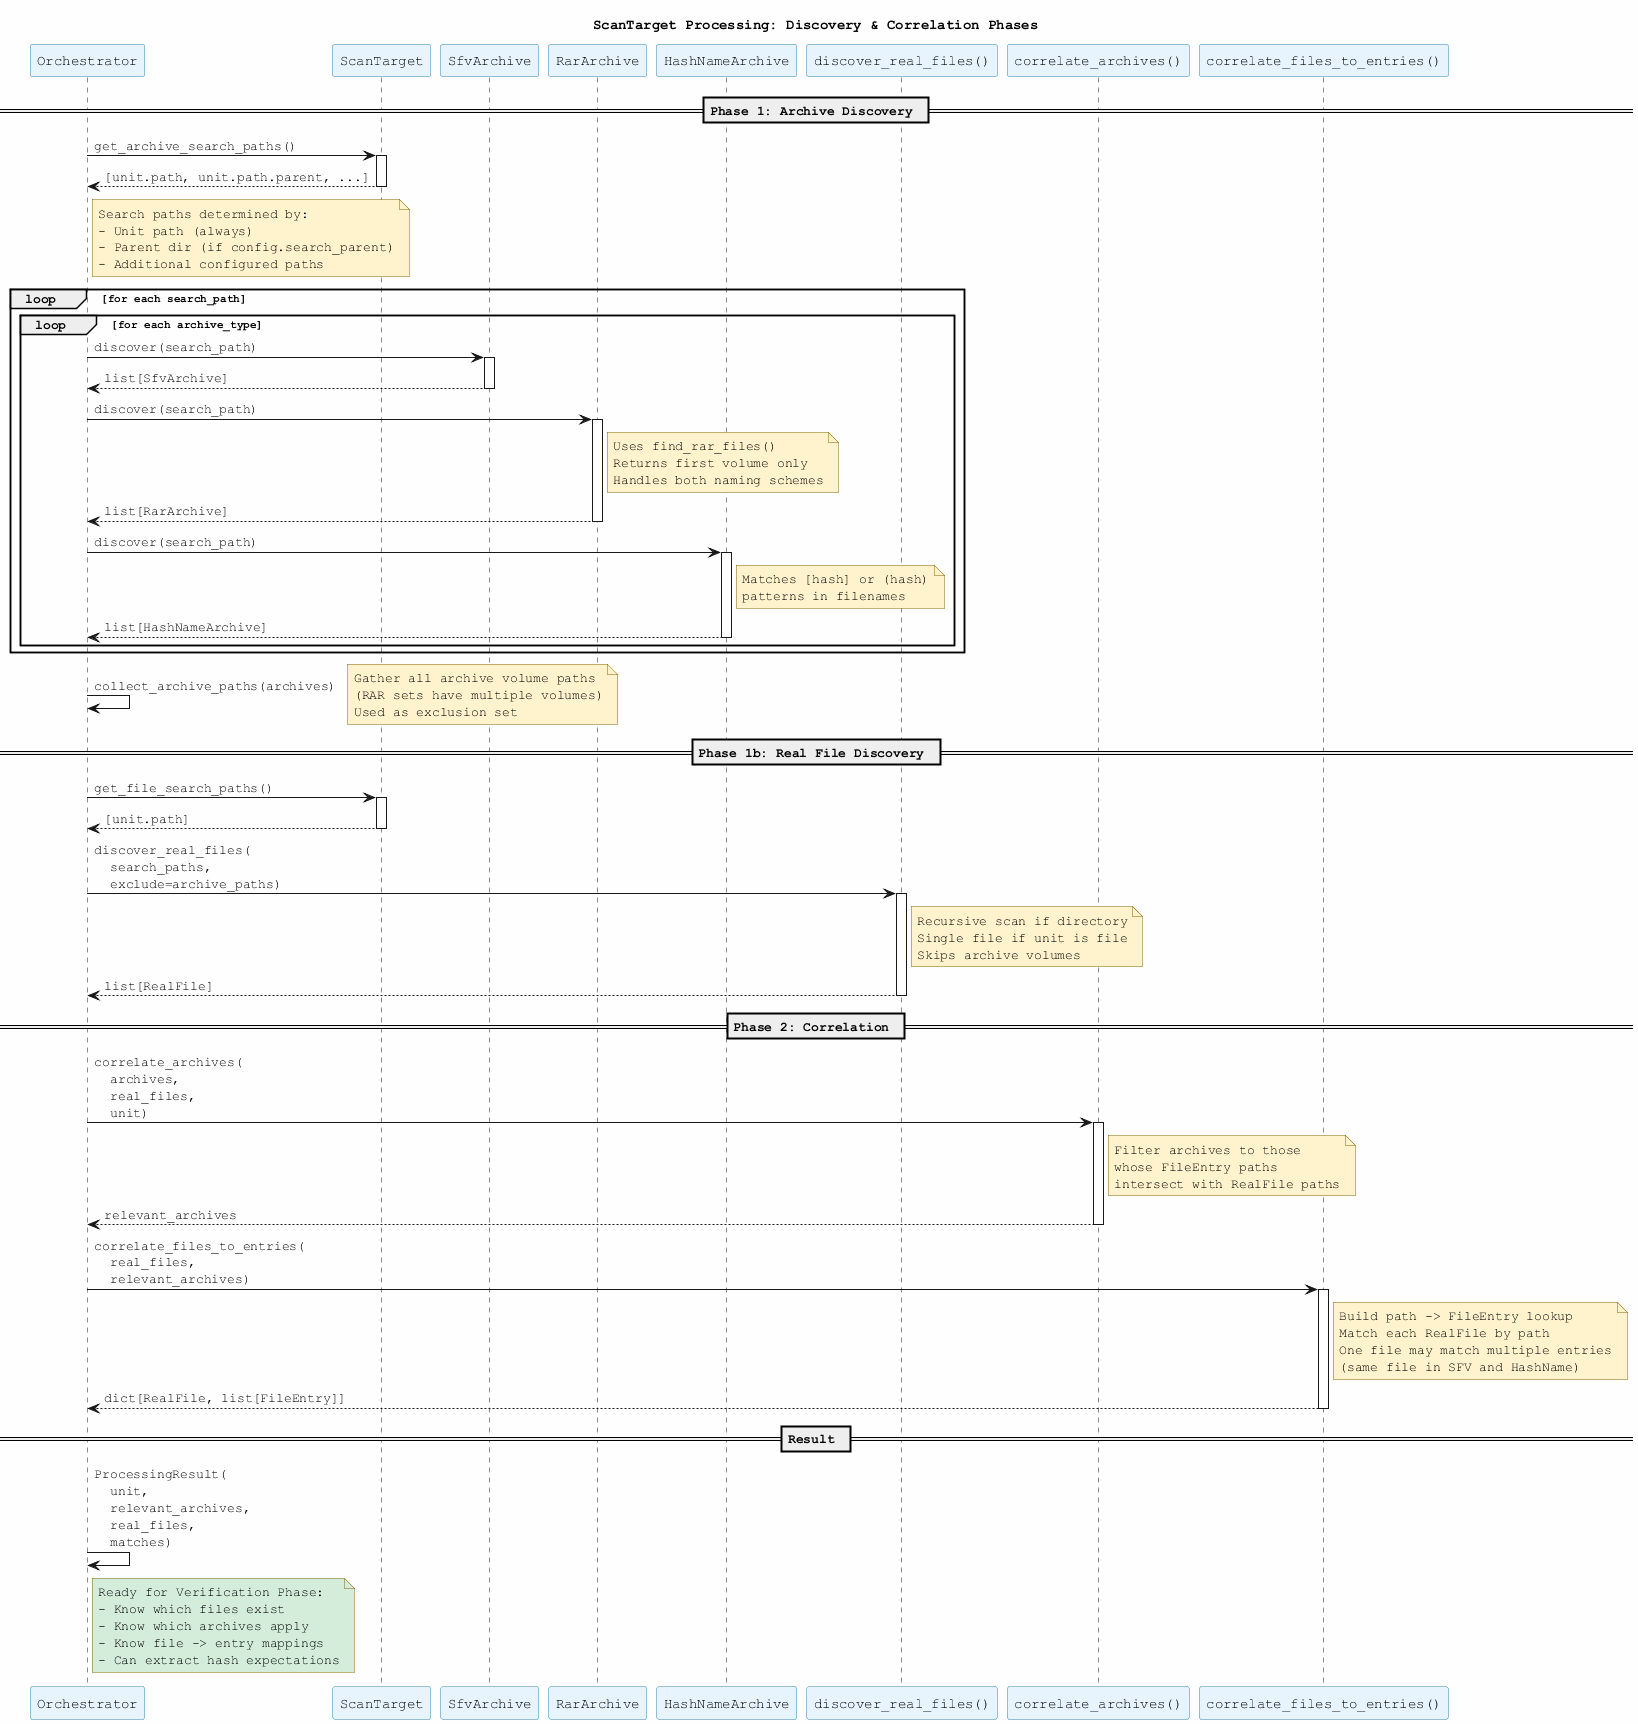
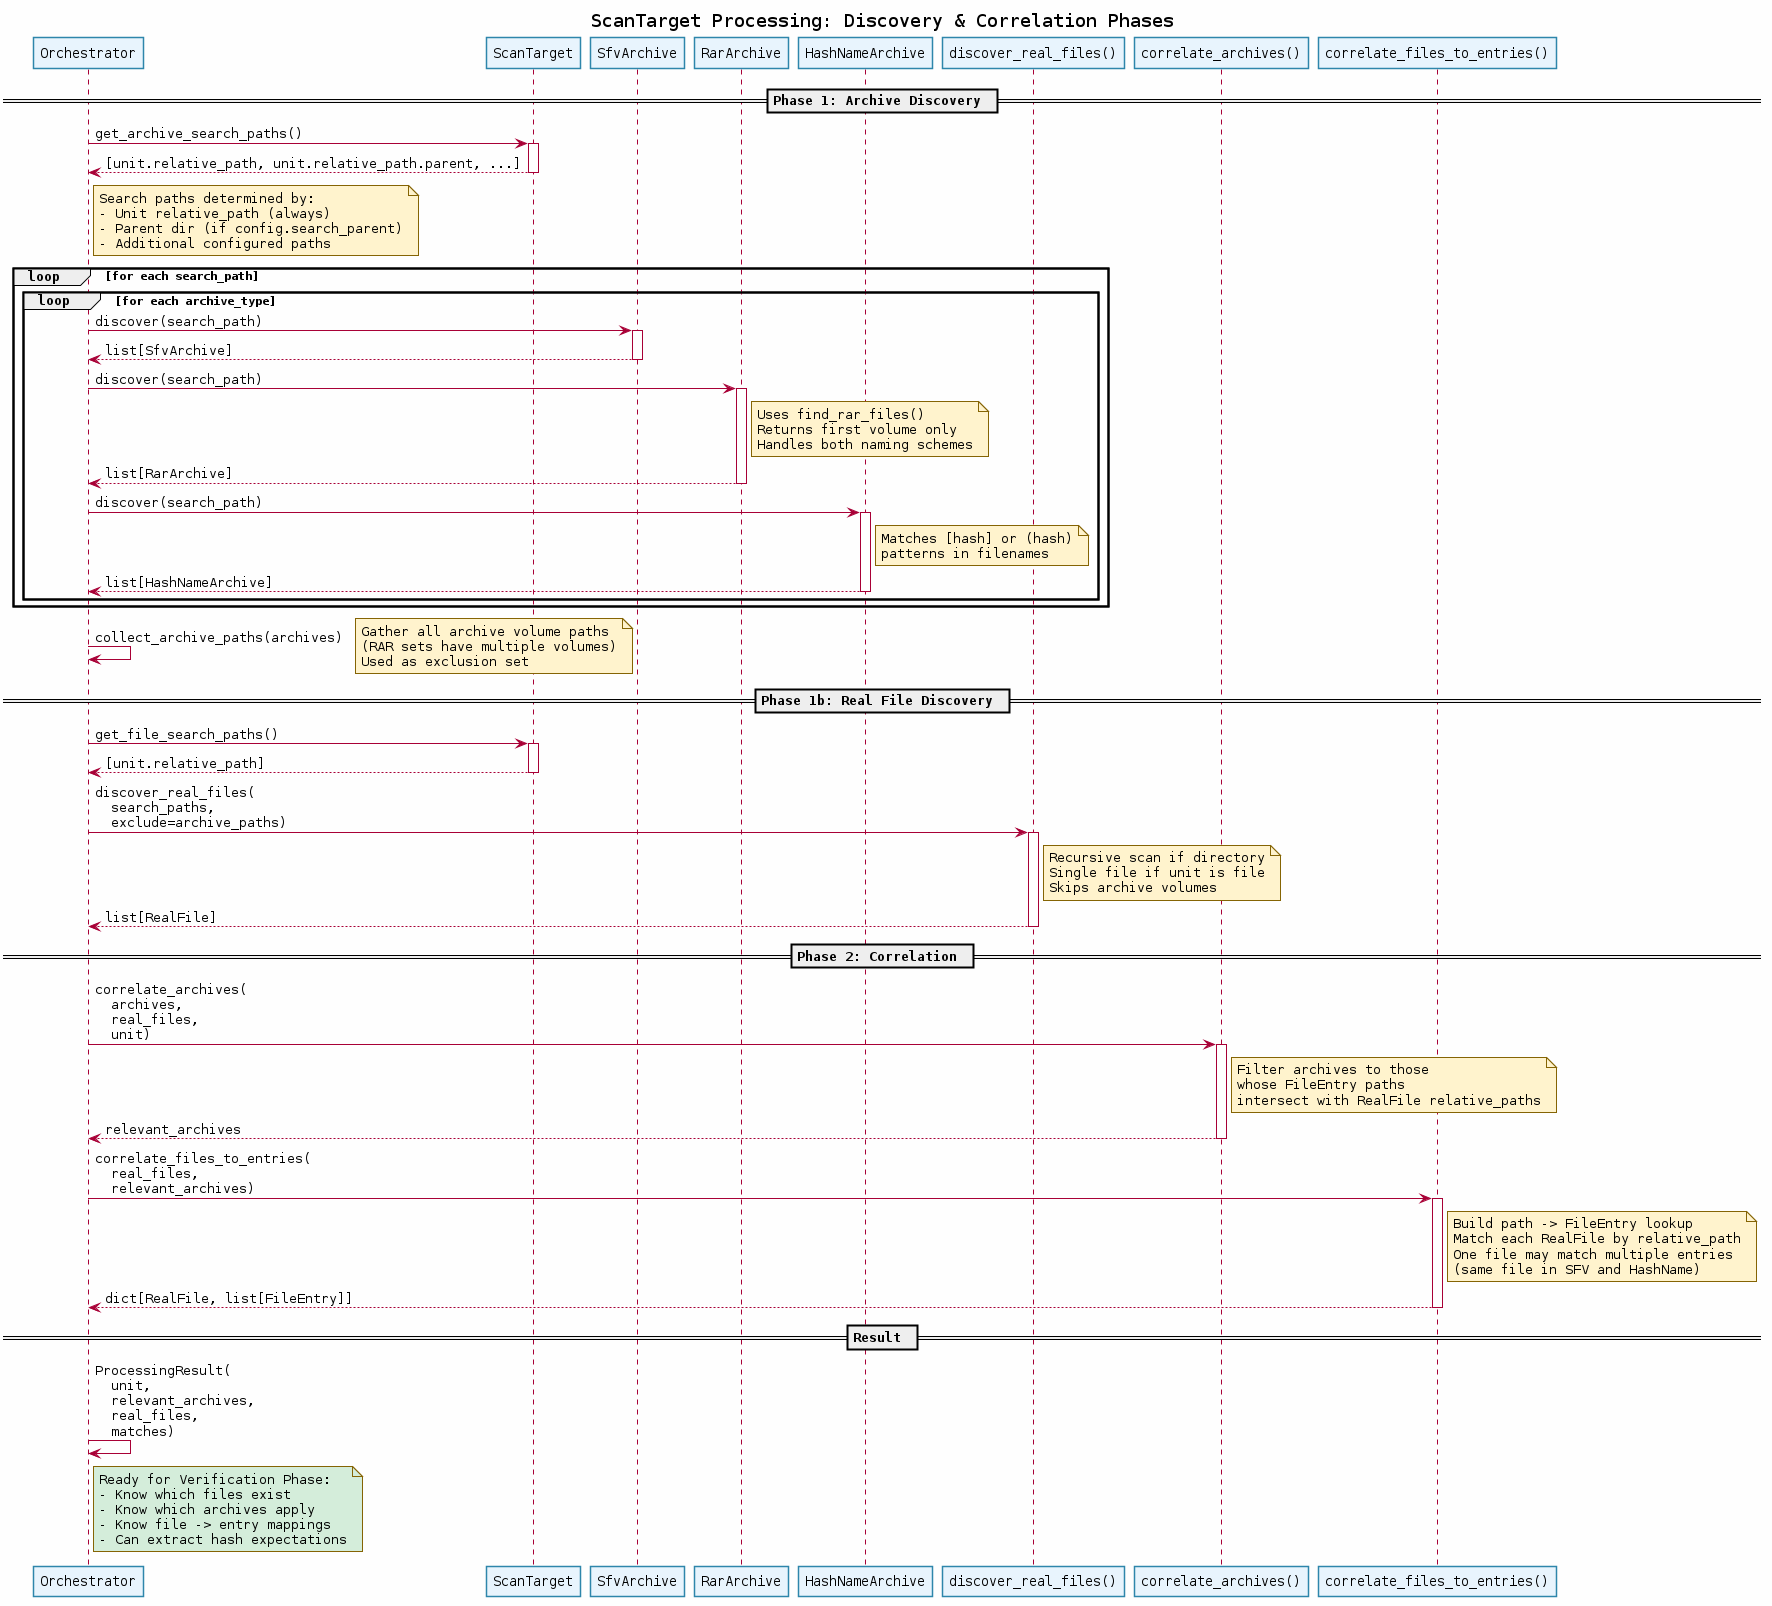
iifixes

diff --git a/plan/implementation_checklist.md b/plan/implementation_checklist.md
@@ -22,10 +22,10 @@ The goal is to map each “box/arrow” from the diagrams to concrete code artif
 
 ## A) Path-in-storage foundation (AnchoredPath*)
 
-- [x] `AnchoredPathMixin` exists and provides `full_path`
-  - **Code**: `src/hoarder/utils/path_utils.py` (`AnchoredPathMixin.full_path`)
-- [x] `AnchoredPath` dataclass exists with containment validation
-  - **Code**: `src/hoarder/utils/path_utils.py` (`AnchoredPath.__post_init__`)
+- [ ] `AnchoredPathMixin` exists and provides `full_path`
+  - **Target**: `src/hoarder/utils/path_utils.py` (`AnchoredPathMixin.full_path`)
+- [ ] `AnchoredPath` dataclass exists with containment validation
+  - **Target**: `src/hoarder/utils/path_utils.py` (`AnchoredPath.__post_init__`)
 
 ---
 